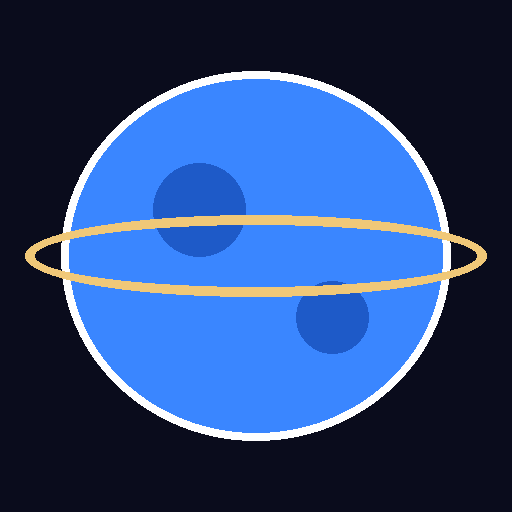
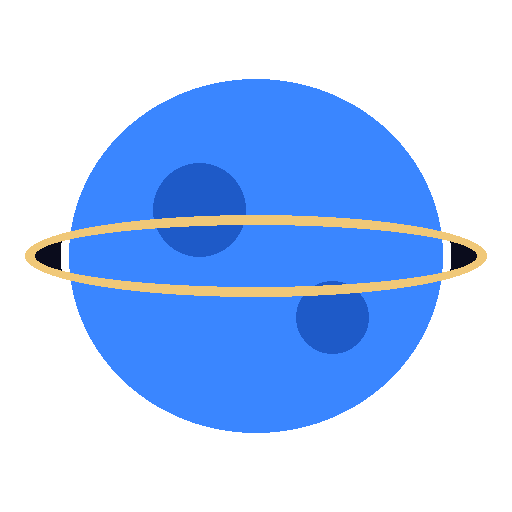
fix(pwa): iconos con fondo transparente y bump de cache a v2

diff --git a/sw.js b/sw.js
@@ -1,5 +1,5 @@
 /* Órbitas SW cache-first */
-const CACHE = 'orbitas-v1';
+const CACHE = 'orbitas-v2';
 const ASSETS = [
   './', './index.html', './styles.css', './app.js',
   './vendor/matter.min.js', './manifest.json',
